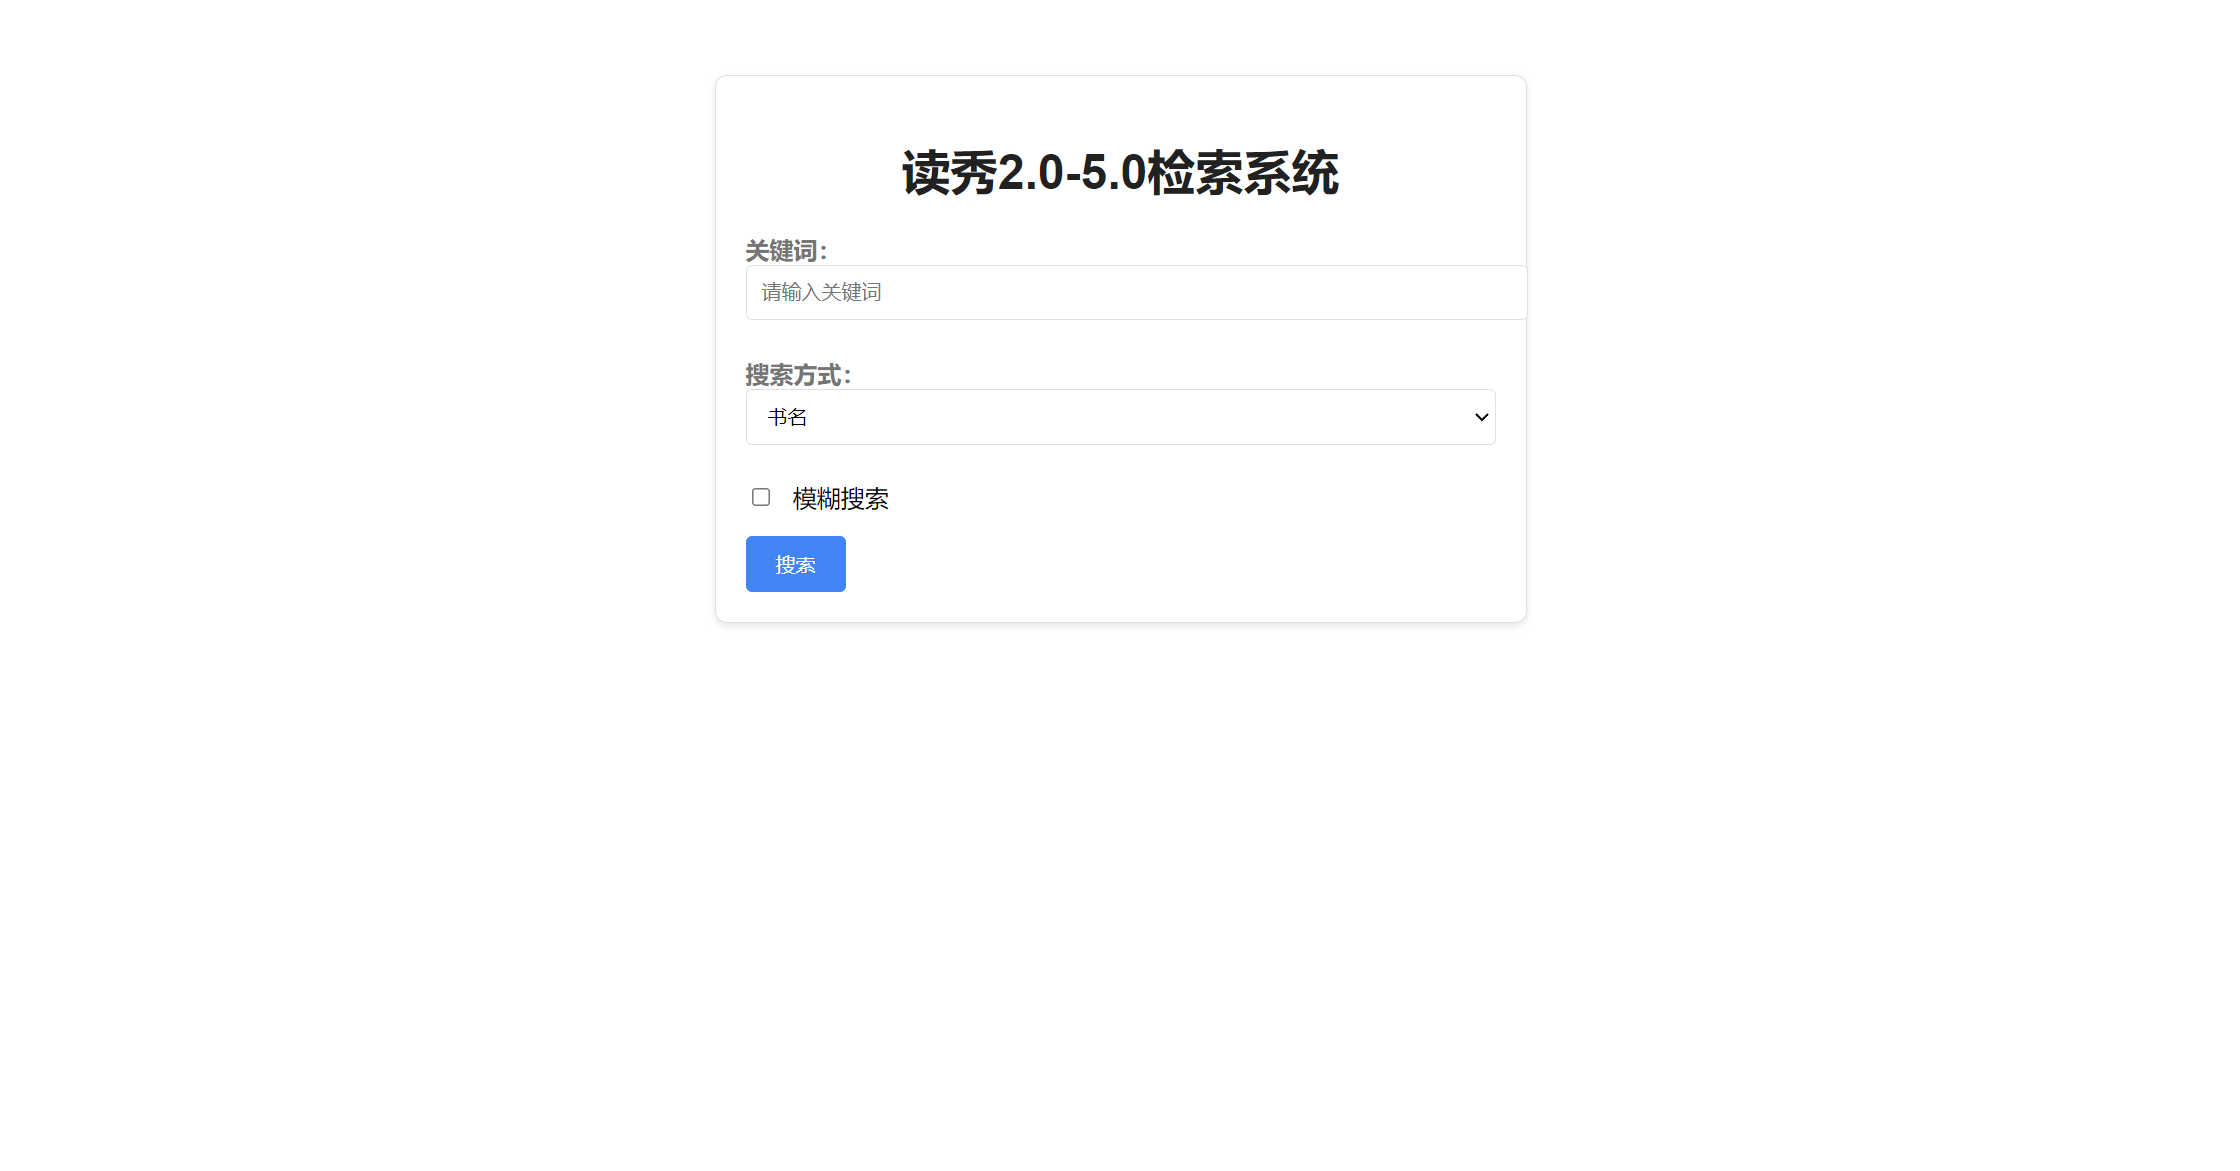
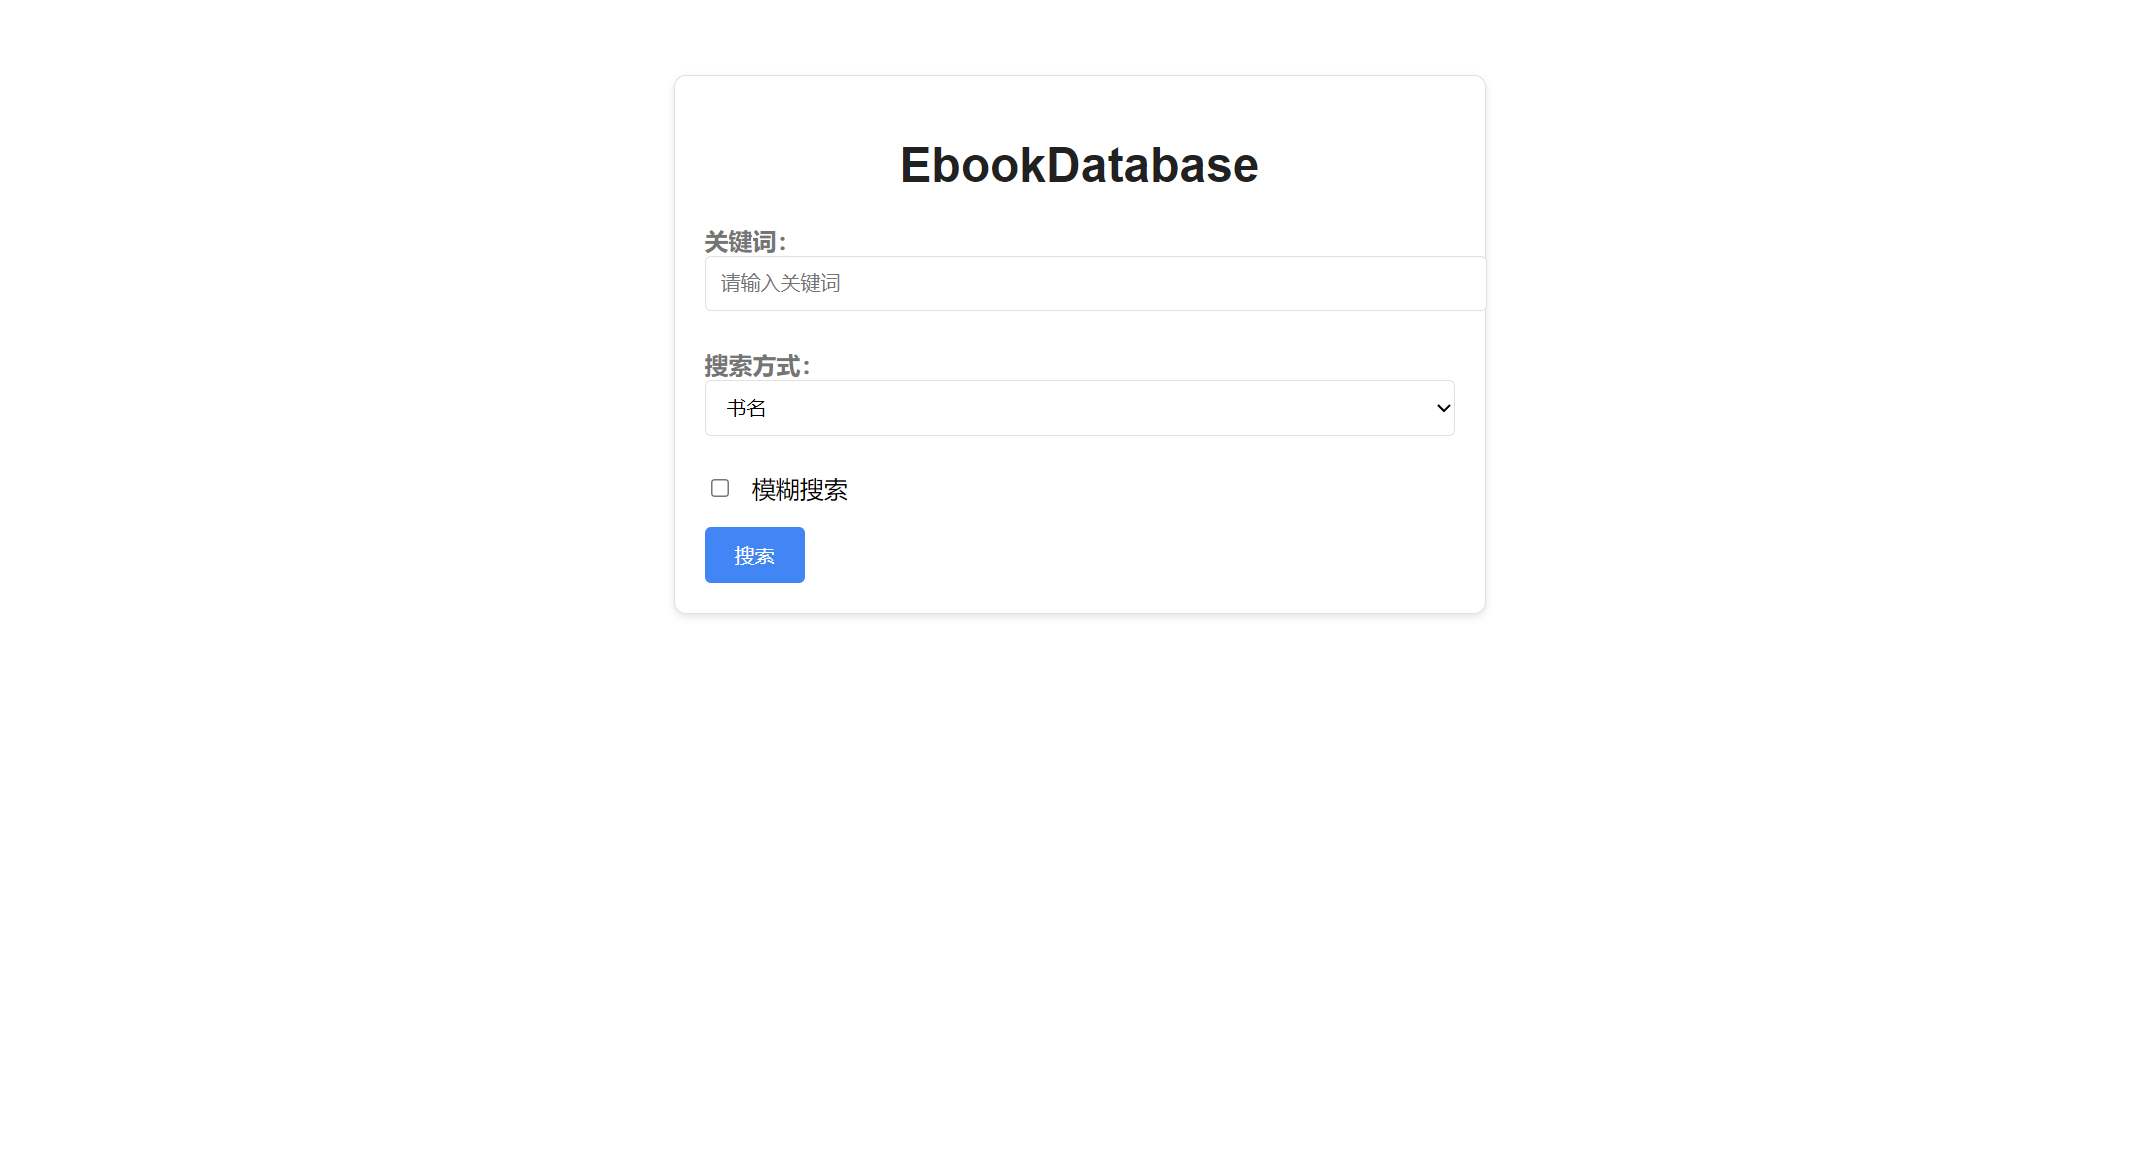
更新

diff --git a/README.md b/README.md
@@ -22,11 +22,7 @@ QQ群：942385978
 
 ## 数据库备份
 
-数据库备份可以通过以下网盘链接获取：
-
-- [123网盘链接](https://www.123pan.com/s/oNv9-zWI2.html)  提取码:dx25
-- [arlenzhang256提供的链接](https://cloud.zyuan.xyz/s/kR5s6) 在此表示感谢
-- 688f06358afa3ebab06f6d0ebe029c9c#3414196224#DX_2.0-5.0.db    感谢OpenSSL提供的百度网盘秒传链接
+### [点击查看数据库列表](Markdown/数据库下载文档.md)
 
 ## 快速开始
 

diff --git a/Markdown/数据库下载文档.md b/Markdown/数据库下载文档.md
@@ -1,0 +1,10 @@
+# 数据库列表
+## 最新链接
+### DX2_5:
+- [百度网盘链接](https://pan.baidu.com/s/1I10grt-by9EVBO93Uk12wQ?pwd=dx25)  提取码：dx25
+
+## 旧版本
+### DX2_5:
+- ~~[123网盘链接](https://www.123pan.com/s/oNv9-zWI2.html)  提取码:dx25~~
+- ~~[arlenzhang256提供的链接](https://cloud.zyuan.xyz/s/kR5s6) 在此表示感谢~~
+- ~~688f06358afa3ebab06f6d0ebe029c9c#3414196224#DX_2.0-5.0.db    感谢OpenSSL提供的百度网盘秒传链接~~

diff --git a/Markdown/更新日志.md b/Markdown/更新日志.md
@@ -5,3 +5,8 @@
 2. 增加启动.bat，支持一键启动功能
 
 3. 修改app.py当中的访问地址为127.0.0.1:10223
+
+- **版本 V0.0.1.1 (2023-10-24)**
+
+1. 修改检索页面的标题为项目名
+
